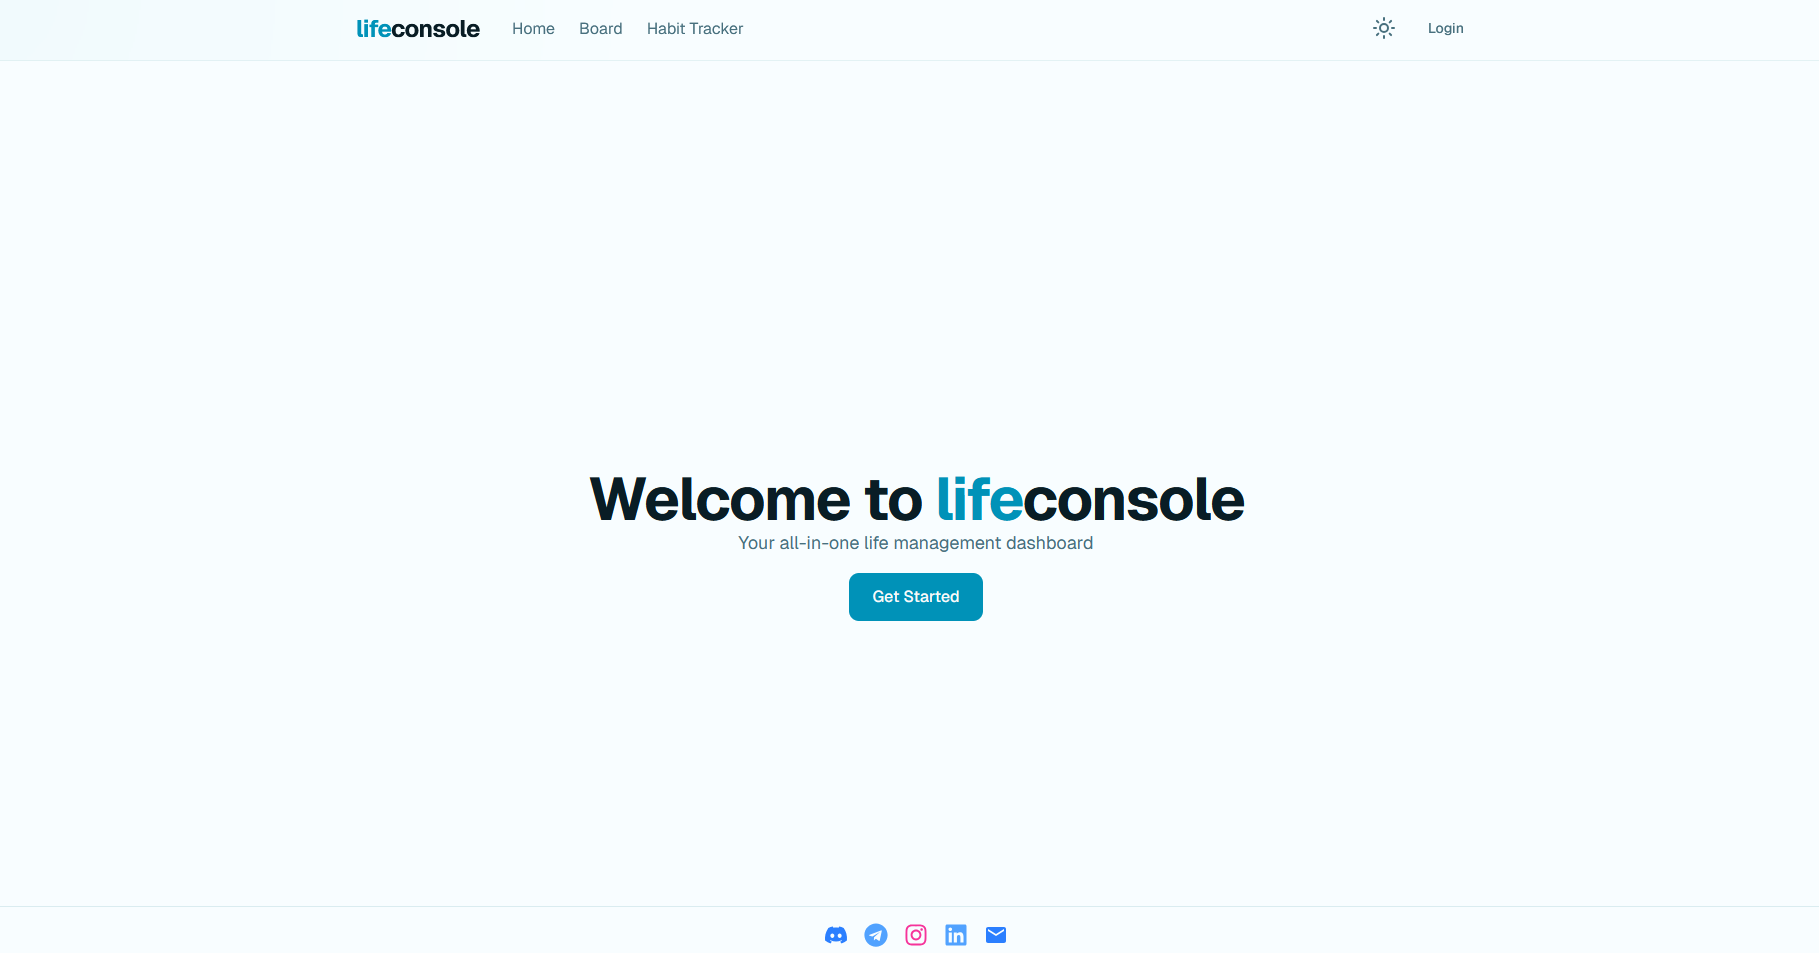
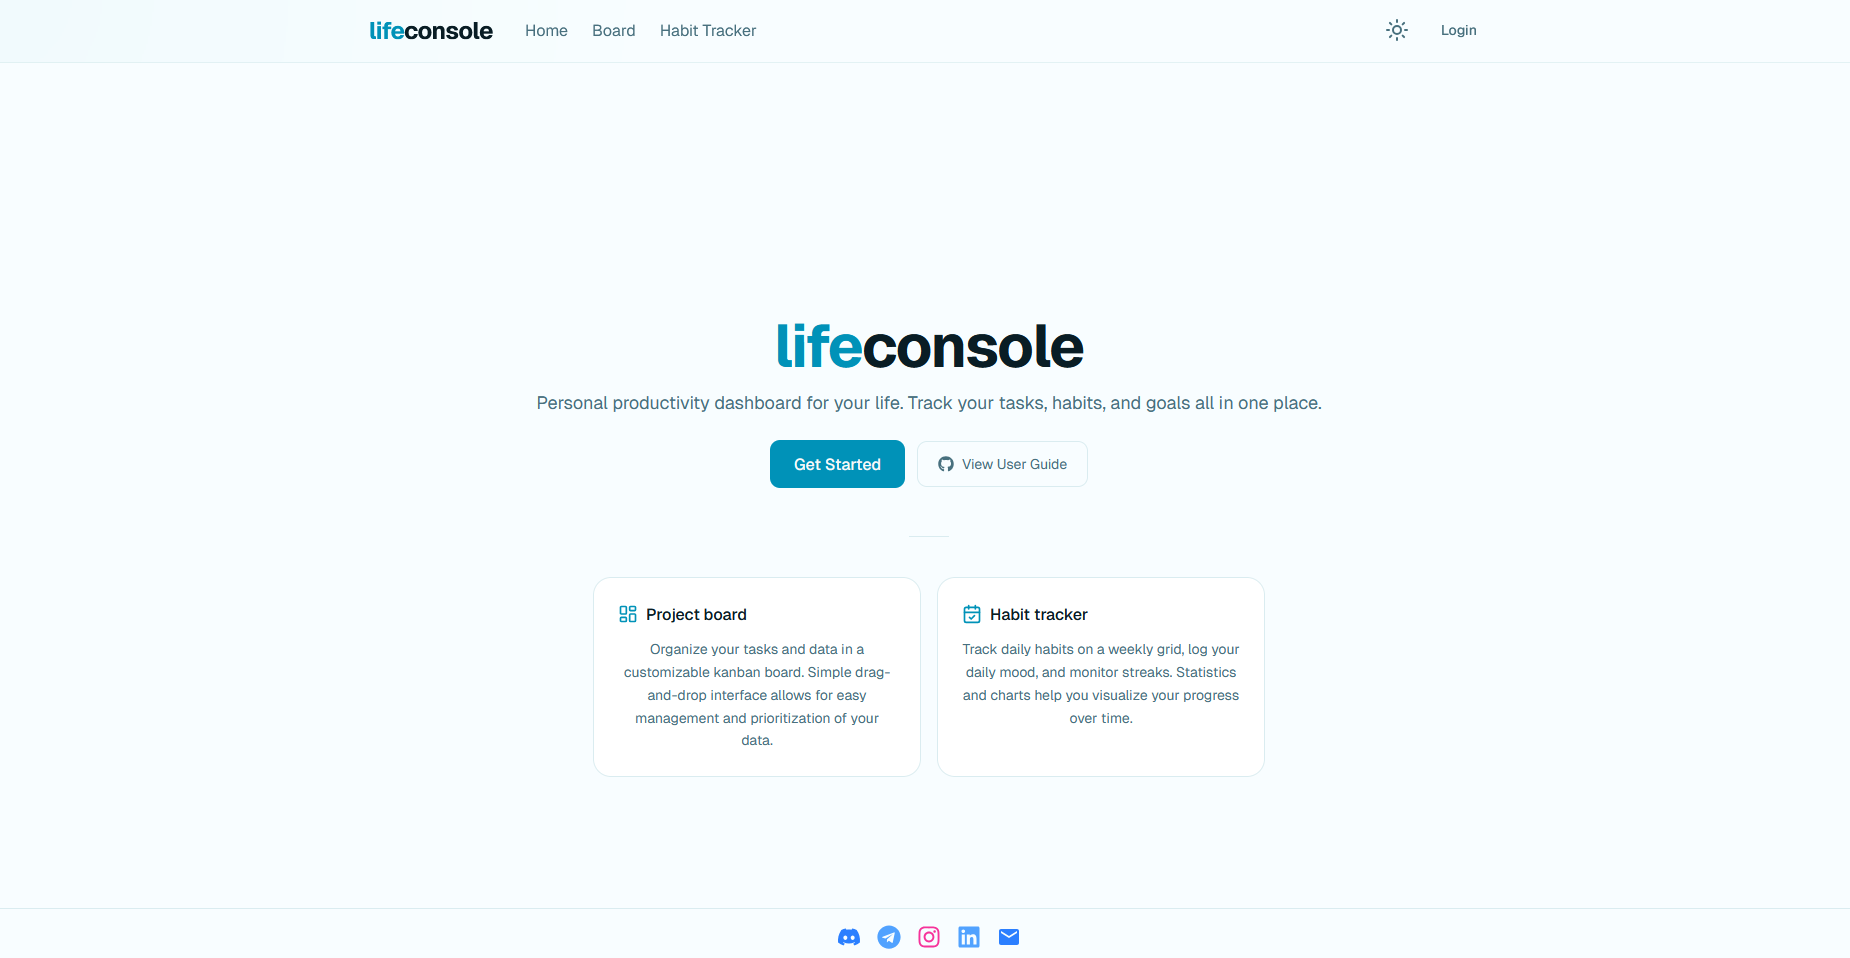
Add brief feature description to landing/home page

diff --git a/frontend/src/pages/LandingPage.tsx b/frontend/src/pages/LandingPage.tsx
@@ -1,3 +1,5 @@
+import { CalendarCheck, LayoutDashboard } from "lucide-react";
+import { FaGithub } from "react-icons/fa";
 import { Link } from "react-router-dom";
 
 import { useAuth } from "../hooks/useAuth";
@@ -8,18 +10,61 @@ const LandingPage = () => {
   return (
     <>
       <div className="flex h-screen flex-col items-center justify-center bg-background px-4 text-center text-foreground">
-        <h1 className="text-5xl font-bold tracking-tight md:text-6xl">
-          Welcome to <span className="text-primary">life</span>console
-        </h1>
-        <p className="text-lg text-muted-foreground mb-4">
-          Your all-in-one life management dashboard
-        </p>
-        <Link
-          to={session ? "/board" : "/login"}
-          className="inline-flex items-center justify-center rounded-lg bg-primary px-6 py-3 font-medium text-primary-foreground transition hover:opacity-90"
-        >
-          Get Started
-        </Link>
+        <div className="mb-12 text-center">
+          <h1 className="text-5xl font-bold tracking-tight md:text-6xl">
+            <span className="text-primary">life</span>console
+          </h1>
+          <p className="mt-3 text-lg text-muted-foreground">
+            Personal productivity dashboard for your life. Track your tasks,
+            habits, and goals all in one place.
+          </p>
+
+          <div className="mt-6 flex flex-wrap items-center gap-3 justify-center">
+            <Link
+              to={session ? "/board" : "/login"}
+              className="inline-flex items-center justify-center rounded-lg bg-primary px-6 py-3 font-medium text-primary-foreground transition hover:opacity-90"
+            >
+              Get Started
+            </Link>
+            <a
+              href="https://github.com/macareonie/lifeconsole/blob/main/docs/UserGuide.md"
+              target="_blank"
+              rel="noopener noreferrer"
+              className="inline-flex items-center gap-2 rounded-lg border border-border px-5 py-3 text-sm text-muted-foreground transition hover:border-foreground/40 hover:text-foreground"
+            >
+              <FaGithub className="h-4 w-4" />
+              View User Guide
+            </a>
+          </div>
+        </div>
+
+        <div className="mb-10 h-px w-10 bg-border" />
+
+        <div className="grid w-full max-w-2xl grid-cols-1 gap-4 sm:grid-cols-2">
+          <div className="rounded-2xl border border-border bg-card p-6">
+            <div className="mb-3 flex items-center gap-2">
+              <LayoutDashboard className="h-5 w-5 text-primary" />
+              <h3 className="font-medium text-foreground">Project board</h3>
+            </div>
+            <p className="text-sm leading-relaxed text-muted-foreground">
+              Organize your tasks and data in a customizable kanban board.
+              Simple drag-and-drop interface allows for easy management and
+              prioritization of your data.
+            </p>
+          </div>
+
+          <div className="rounded-2xl border border-border bg-card p-6">
+            <div className="mb-3 flex items-center gap-2">
+              <CalendarCheck className="h-5 w-5 text-primary" />
+              <h3 className="font-medium text-foreground">Habit tracker</h3>
+            </div>
+            <p className="text-sm leading-relaxed text-muted-foreground">
+              Track daily habits on a weekly grid, log your daily mood, and
+              monitor streaks. Statistics and charts help you visualize your
+              progress over time.
+            </p>
+          </div>
+        </div>
       </div>
     </>
   );